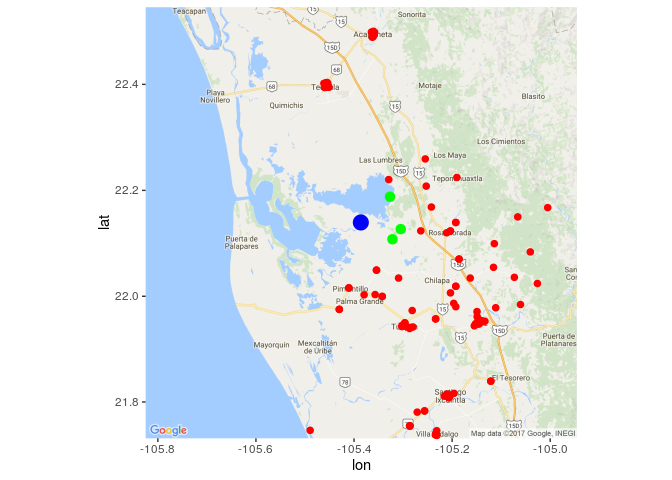
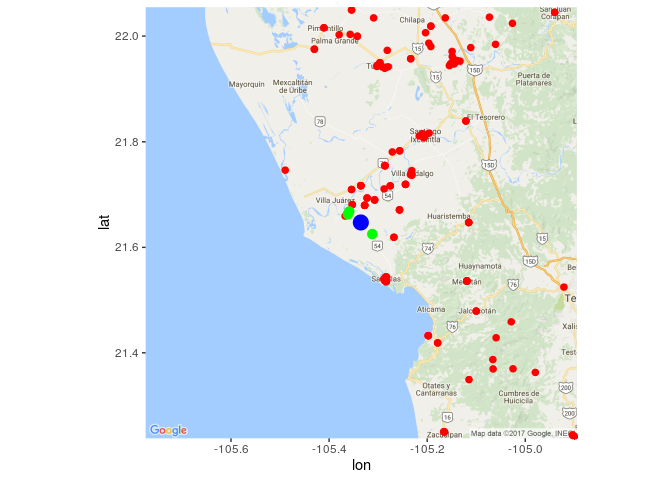
se agrega .Rdata para reproducir mapa con leaftlet

diff --git a/datalab.md b/datalab.md
@@ -193,14 +193,18 @@ datos[recomendaciones, c( 'Refugio', 'Municipio', 'Dirección', 'Latitud', 'Long
                      'Responsable', 'Telefono') ]
 ```
 
-    ##           Refugio  Municipio       Dirección      Latitud      Longitud
-    ## 390 ESC. PRIMARIA ROSAMORADA   SAN MIGUELITO 22°06'28.55" 105°19'18.45"
-    ## 405 ESC. PRIMARIA ROSAMORADA    EL PESCADERO 22°11'17.05" 105°19'36.62"
-    ## 381 ESC. PRIMARIA ROSAMORADA LLANO DEL TIGRE 22°07'37.23" 105°18'17.80"
-    ##     Altitud              Responsable                            Telefono
-    ## 390      20  POLICARPIO DURAN FABIAN                         323-2352394
-    ## 405      15 JULIAN PALACIOS GONZALEZ PCM: 319-2340005   CEL. 323-1050294
-    ## 381      20    CAMILO GONZALEZ RAMOS                         200-1247915
+    ##                                    Refugio Municipio      Dirección
+    ## 135 ESCUELA PRIMARIA “FRANCISCO I. MADERO”  SAN BLAS ISLA DEL CONDE
+    ## 136 ESC. PRIMARIA “FELIPE CARRILLO PUERTO”  SAN BLAS  PLAYA RAMIREZ
+    ## 156                       ESCUELA PRIMARIA  SAN BLAS     LA CHIRIPA
+    ##          Latitud      Longitud Altitud          Responsable
+    ## 135 21º39'46.24" 105º21'42.62"      10 DIRECTOR DEL PLANTEL
+    ## 136 21º40'05.86" 105º21'32.22"      10 DIRECTOR DEL PLANTEL
+    ## 156 21º37'31.56" 105º18'43.66"      10 DIRECTOR DEL PLANTEL
+    ##                                              Telefono
+    ## 135 323-2370220                           323-2370584
+    ## 136                                       323-2370147
+    ## 156        PCM: 323-2850302       CEL. 045323-1050294
 
 Visualización
 =============
@@ -212,11 +216,14 @@ mapa <- ggmap(get_map(location=c(persona$lon[1], persona$lat[1]) ,
                       maptype = "roadmap", zoom = 10 ))
 ```
 
-    ## Map from URL : http://maps.googleapis.com/maps/api/staticmap?center=22.139444,-105.386111&zoom=10&size=640x640&scale=2&maptype=roadmap&language=en-EN&sensor=false
+    ## Map from URL : http://maps.googleapis.com/maps/api/staticmap?center=21.647222,-105.335278&zoom=10&size=640x640&scale=2&maptype=roadmap&language=en-EN&sensor=false
 
 ``` r
 mapa <-mapa  + geom_point(data=persona, aes(lon, lat), color = "blue", size= 5)
 res <- data.frame(lat = coord$lat[recomendaciones], lon = coord$lon[recomendaciones])
+save(persona,res, coord, file = "mapaReproducible.Rdata" ) # se agrega linea para                                           #guardar .Rdata con los datos necesarios
+                                    # para replicar mapa con leaflet
+
 mapa <- mapa + geom_point(data=coord, aes(lon, lat), color = "red", size= 2)
 mapa+geom_point(data=res, aes(lon, lat), color = "green", size= 3)
 ```
